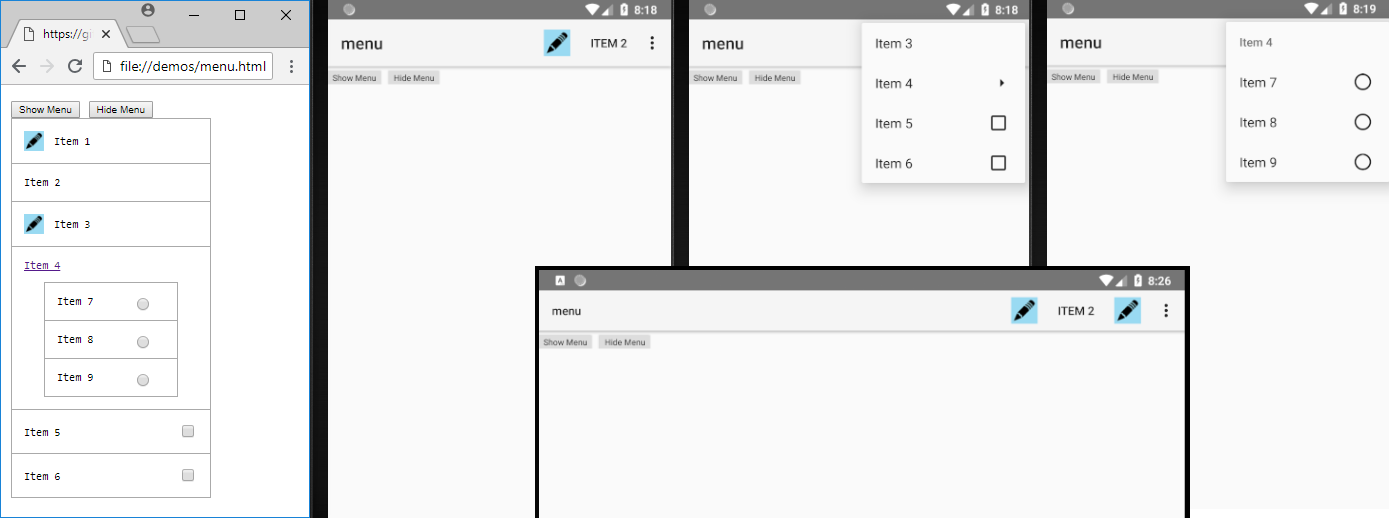
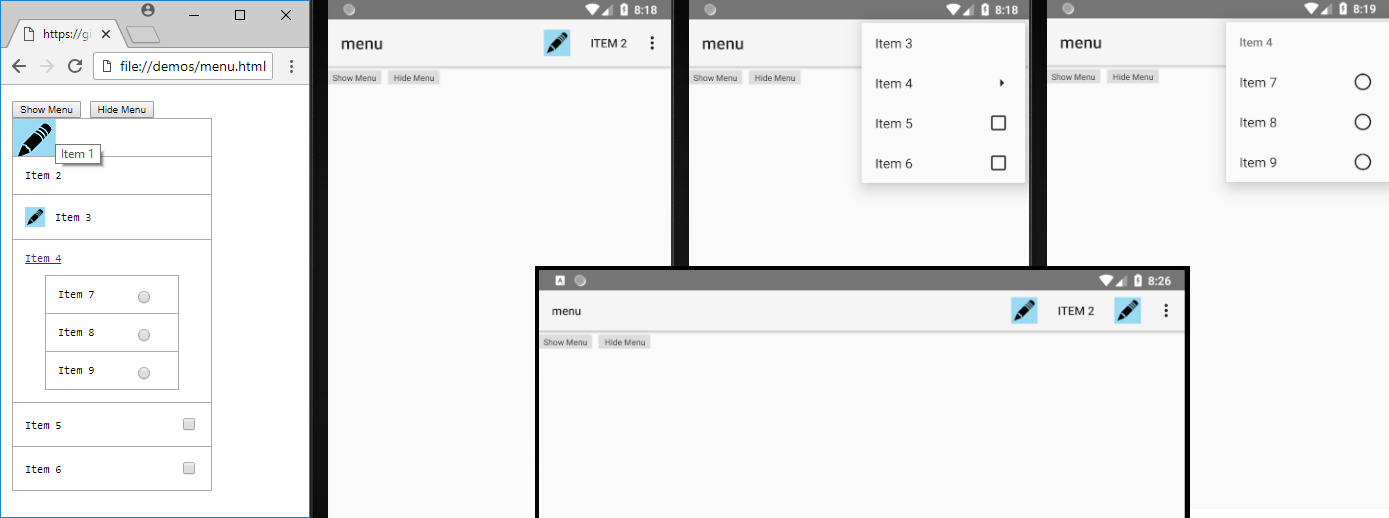
Images with relative path are resolved to absolute path.

diff --git a/src/android/extension/menu.ts b/src/android/extension/menu.ts
@@ -72,22 +72,24 @@ export default class MenuAndroid<T extends View> extends Menu {
         let title = '';
         if (node.children.some(item => BLOCK_CHROME.includes(item.tagName))) {
             if (node.children.some(item => item.tagName === 'NAV')) {
-                node.children.some(item => {
-                    const child = item.element;
-                    if (child != null) {
+                if (element.title !== '') {
+                    title = element.title.trim();
+                }
+                else {
+                    node.children.some(item => {
+                        const child = item.element;
                         if (child.nodeName === '#text' && child.textContent != null && child.textContent.trim() !== '') {
                             title = child.textContent.trim();
-                            item.hide();
                             return true;
                         }
                         else if (child.tagName !== 'NAV') {
                             title = child.innerText.trim();
-                            item.hide();
                             return true;
                         }
-                    }
-                    return false;
-                });
+                        return false;
+                    });
+                }
+                node.children.forEach(item => item.tagName !== 'NAV' && item.hide());
             }
             else if (node.tagName === 'NAV') {
                 viewName = VIEW_STATIC.MENU;
@@ -115,19 +117,23 @@ export default class MenuAndroid<T extends View> extends Menu {
                 node.hide();
                 return ['', false];
             }
-            else {
-                title = element.innerText.trim();
-            }
+            title = (element.title !== '' ? element.title : element.innerText).trim();
         }
         switch (viewName) {
             case VIEW_STATIC.ITEM:
                 this.parseDataSet(VALIDATE_ITEM, element, options);
                 if (node.android('icon') == null) {
-                    const image = node.children.find(item => item.element.tagName === 'IMG');
-                    if (image != null) {
-                        const object = (<any> image.element);
-                        object.__imageSourcePrefix = 'ic_menu_';
-                        object.__imageSourceTarget = { node, namespace: 'android', attribute: 'icon' };
+                    const resourceName = Resource.addImageURL((<any> element.style).backgroundImage, 'ic_menu_');
+                    if (resourceName !== '') {
+                        options.android.icon = `@drawable/${resourceName}`;
+                    }
+                    else {
+                        const image = node.children.find(item => item.element.tagName === 'IMG');
+                        if (image != null) {
+                            const object = (<any> image.element);
+                            object.__imageSourcePrefix = 'ic_menu_';
+                            object.__imageSourceTarget = { node, namespace: 'android', attribute: 'icon' };
+                        }
                     }
                 }
                 break;

diff --git a/src/base/resource.ts b/src/base/resource.ts
@@ -3,7 +3,7 @@ import File from './file';
 import Node from './node';
 import NodeList from './nodelist';
 import { INLINE_CHROME, VIEW_RESOURCE } from '../lib/constants';
-import { cameltoLowerCase, convertPX, generateId, getFileExt, getFileName, hasValue, isNumber } from '../lib/util';
+import { cameltoLowerCase, convertPX, generateId, getFileExt, getFileName, hasValue, isNumber, resolveRelativePath } from '../lib/util';
 import { findNearestColor, parseRGBA } from '../lib/color';
 import { getBoxSpacing, sameAsParent } from '../lib/dom';
 import SETTINGS from '../settings';
@@ -66,6 +66,14 @@ export default abstract class Resource<T extends Node> {
             }
         }
         return src;
+    }
+
+    public static addImageURL(value: string, prefix: string = '') {
+        const match = value.match(/^url\("(.*?)"\)$/);
+        if (match != null) {
+            return Resource.addImage({ 'mdpi': resolveRelativePath(match[1]) }, prefix);
+        }
+        return '';
     }
 
     public static addColor(value: string, hex = true) {
@@ -168,7 +176,7 @@ export default abstract class Resource<T extends Node> {
                         borderLeft: this.parseBorderStyle,
                         borderRadius: this.parseBorderRadius,
                         backgroundColor: parseRGBA,
-                        backgroundImage: this.parseImageURL,
+                        backgroundImage: Resource.addImageURL,
                         backgroundSize: this.parseBoxDimensions
                     };
                     for (const i in result) {
@@ -396,13 +404,5 @@ export default abstract class Resource<T extends Node> {
             }
         }
         return [];
-    }
-
-    private parseImageURL(value: string) {
-        const match = value.match(/^url\("(.*?)"\)$/);
-        if (match != null) {
-            return Resource.addImage({ 'mdpi': match[1] });
-        }
-        return '';
     }
 }

diff --git a/src/lib/util.ts b/src/lib/util.ts
@@ -187,6 +187,37 @@ export function getFileExt(value: string) {
     return value.substring(value.lastIndexOf('.') + 1);
 }
 
+export function resolveRelativePath(value: string) {
+    if (!/^\w+:\/\//.test(value)) {
+        let pathname = location.pathname.split('/');
+        pathname.pop();
+        if (value.charAt(0) === '/') {
+            value = location.origin + value;
+        }
+        else {
+            if (value.startsWith('../')) {
+                const parts: string[] = [];
+                let levels = 0;
+                value.split('/').forEach(dir => {
+                    if (dir === '..') {
+                        levels++;
+                    }
+                    else {
+                        parts.push(dir);
+                    }
+                });
+                pathname = pathname.slice(0, Math.max(pathname.length - levels, 0));
+                pathname.push(...parts);
+                value = location.origin + pathname.join('/');
+            }
+            else {
+                value = `${location.origin + pathname.join('/')}/${value}`;
+            }
+        }
+    }
+    return value;
+}
+
 export function search(obj: {}, value: string | object) {
     const result: any[][] = [];
     if (typeof value === 'object') {

diff --git a/src/lib/dom.ts b/src/lib/dom.ts
@@ -27,9 +27,19 @@ export function assignBounds(bounds: ClientRect): ClientRect {
     };
 }
 
-export function getStyle(element: HTMLElement) {
+export function getStyle(element: HTMLElement, cache = true): CSSStyleDeclaration {
     const object = (<any> element);
-    return (object.__node != null ? (<CSSStyleDeclaration> object.__node.style) : getComputedStyle(element));
+    if (cache) {
+        if (object.__style != null) {
+            return object.__style;
+        }
+        else if (object.__node != null && object.__node.style != null) {
+            return object.__node.style;
+        }
+    }
+    const style = getComputedStyle(element);
+    object.__style = style;
+    return style;
 }
 
 export function sameAsParent(element: HTMLElement, attr: string) {

diff --git a/demos/menu.html b/demos/menu.html
@@ -102,12 +102,12 @@
         <button onclick="document.getElementById('menu-demo').style.display = 'none';">Hide Menu</button>
         <nav id="menu-demo" data-extension="androme.menu, androme.hidden">
             <div
+                style="background: url(../demos/images/pencil-ldpi.png) no-repeat;" title="Item 1"
                 data-id="@+id/menu_item_1"
                 data-show-as-action="always"
                 data-alphabetic-shortcut="A"
                 data-alphabetic-modifiers="CTRL|ALT">
-                    <img src="../demos/images/pencil-ldpi.png" />
-                    <label>Item 1</label>
+                    &nbsp;
             </div>
             <div
                 data-id="@+id/menu_item_2"

diff --git a/demos-dev/menu.html b/demos-dev/menu.html
@@ -75,12 +75,12 @@
         <button onclick="document.getElementById('menu-demo').style.display = 'none';">Hide Menu</button>
         <nav id="menu-demo" data-extension="androme.menu, androme.hidden">
             <div
+                style="background: url(../demos/images/pencil-ldpi.png) no-repeat;" title="Item 1"
                 data-id="@+id/menu_item_1"
                 data-show-as-action="always"
                 data-alphabetic-shortcut="A"
                 data-alphabetic-modifiers="CTRL|ALT">
-                    <img src="../demos/images/pencil-ldpi.png" />
-                    <label>Item 1</label>
+                    &nbsp;
             </div>
             <div
                 data-id="@+id/menu_item_2"
